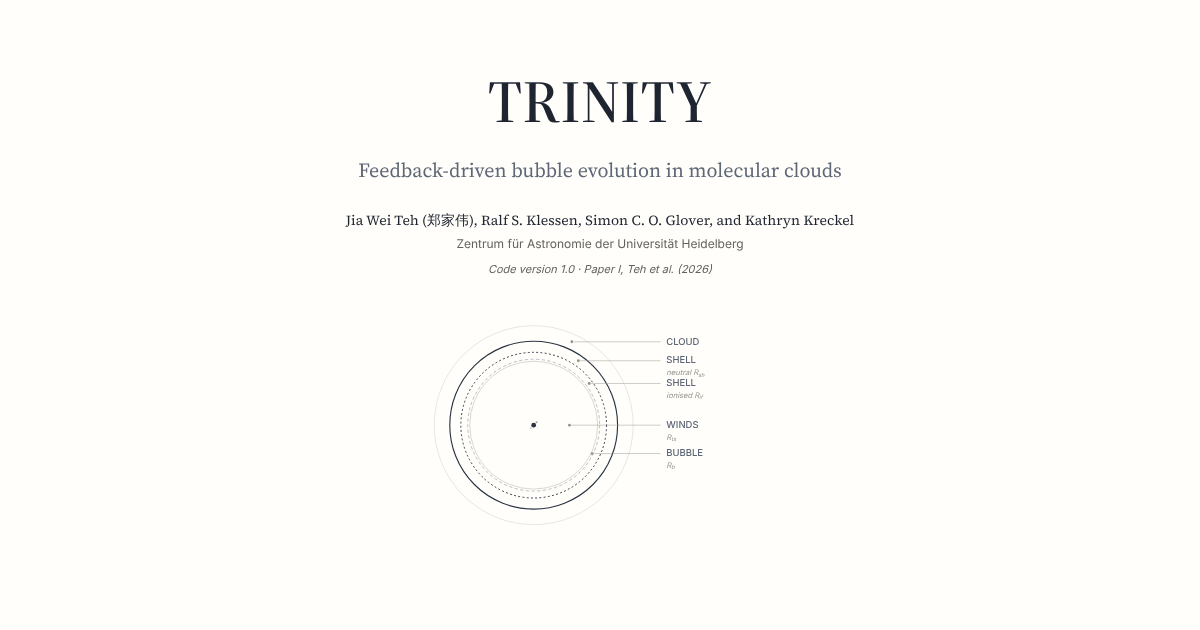
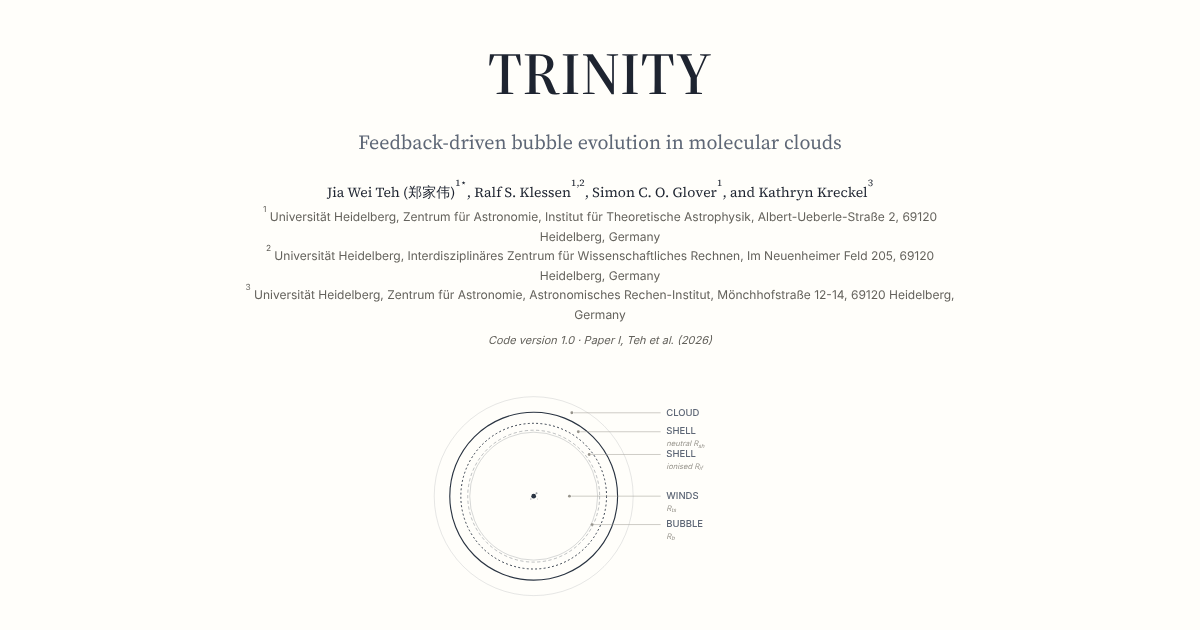
Affiliations as printed in Paper I; table overflow on phones
The masthead collapsed the four authors' affiliations into one line,
which was wrong for three of them. Restore the author line with its
numbered marks and the three affiliations exactly as Paper I prints
them; the footer carries the first of them. The superscript rule
returns with the marks, and the social preview is re-rendered.

The notebook page's three-run table was wider than a phone screen and
forced the layout viewport out to about 500 px, so the whole page
rendered zoomed out. Tables in the docs now scroll inside the article
instead. Every docs page is pixel-identical above the footer at 1440 px.

Two navigation follow-ups: the old ?view=docs&page=publications URL
now lands on the Publications section itself rather than the top of
the overview, and re-clicking the already-active Docs card no longer
adds a history entry.

diff --git a/src/components/TitleBlock.jsx b/src/components/TitleBlock.jsx
@@ -17,13 +17,14 @@ export default function TitleBlock({ onNavigate }) {
           Feedback-driven bubble evolution in molecular clouds
         </p>
 
-        <p 
-           className="font-display text-[14px] text-ink-primary mb-1">
-          Jia Wei Teh (郑家伟), Ralf S. Klessen, Simon C. O. Glover, and Kathryn Kreckel
+        <p className="font-display text-[14px] text-ink-primary mb-1">
+          Jia Wei Teh (郑家伟)<sup>1⋆</sup>, Ralf S. Klessen<sup>1,2</sup>, Simon C. O. Glover<sup>1</sup>, and Kathryn Kreckel<sup>3</sup>
         </p>
-        <p 
-           className="font-ui text-[12px] text-ink-tertiary mb-2">
-          Zentrum für Astronomie der Universität Heidelberg
+        {/* Affiliations as printed in Paper I. */}
+        <p className="font-ui text-[12px] text-ink-tertiary mb-2 leading-relaxed">
+          <sup>1</sup> Universität Heidelberg, Zentrum für Astronomie, Institut für Theoretische Astrophysik, Albert-Ueberle-Straße 2, 69120 Heidelberg, Germany<br />
+          <sup>2</sup> Universität Heidelberg, Interdisziplinäres Zentrum für Wissenschaftliches Rechnen, Im Neuenheimer Feld 205, 69120 Heidelberg, Germany<br />
+          <sup>3</sup> Universität Heidelberg, Zentrum für Astronomie, Astronomisches Rechen-Institut, Mönchhofstraße 12-14, 69120 Heidelberg, Germany
         </p>
         <p 
            className="font-ui text-[11px] text-ink-tertiary italic mb-6">

diff --git a/src/App.jsx b/src/App.jsx
@@ -93,6 +93,16 @@ export default function App() {
     else changeView(target.view)
   }, [changePage, changeView])
 
+  // The retired Docs citation page lives on at /#publications; take old links there.
+  useEffect(() => {
+    if (new URLSearchParams(window.location.search).get('page') !== 'publications') return
+    const url = new URL(window.location.href)
+    url.search = ''
+    url.hash = '#publications'
+    history.replaceState(null, '', url.toString())
+    document.getElementById('publications')?.scrollIntoView()
+  }, [])
+
   useEffect(() => {
     const onPop = () => setLocation(readLocation())
     window.addEventListener('popstate', onPop)

diff --git a/src/index.css b/src/index.css
@@ -84,6 +84,13 @@ body {
   background: rgba(30, 36, 48, 0.1);
 }
 
+/* Affiliation marks in the author line */
+sup {
+  font-size: 0.7em;
+  vertical-align: super;
+  line-height: 0;
+}
+
 /* Ensure smooth scroll targets account for fixed navbar */
 [id] {
   scroll-margin-top: 64px;
@@ -416,7 +423,12 @@ body {
   font-style: italic;
 }
 
+/* A table wider than a phone screen scrolls inside the article instead of
+   widening the page. */
 .docs-article table {
+  display: block;
+  max-width: 100%;
+  overflow-x: auto;
   border-collapse: collapse;
   margin: 16px 0;
   font-family: var(--font-ui);

diff --git a/src/components/Footer.jsx b/src/components/Footer.jsx
@@ -11,7 +11,7 @@ export default function Footer() {
         <div>
           <div className="text-ink-primary">Jia Wei Teh</div>
           <div className="text-ink-secondary">jiaweiteh.astro (at) gmail.com</div>
-          <div>Institut für Theoretische Astrophysik, Zentrum für Astronomie der Universität Heidelberg</div>
+          <div>Universität Heidelberg, Zentrum für Astronomie, Institut für Theoretische Astrophysik, Albert-Ueberle-Straße 2, 69120 Heidelberg, Germany</div>
         </div>
         <div className="md:text-right">
           <div>

diff --git a/src/components/DocsView.jsx b/src/components/DocsView.jsx
@@ -83,7 +83,7 @@ function DocsHeader({ docs, active, onPageChange }) {
             <button
               key={d.key}
               type="button"
-              onClick={() => onPageChange(d.key)}
+              onClick={() => { if (!isActive) onPageChange(d.key) }}
               aria-current={isActive ? 'page' : undefined}
               className={`group min-h-[124px] rounded-[14px] border p-5 text-left transition duration-200 ${
                 isActive
